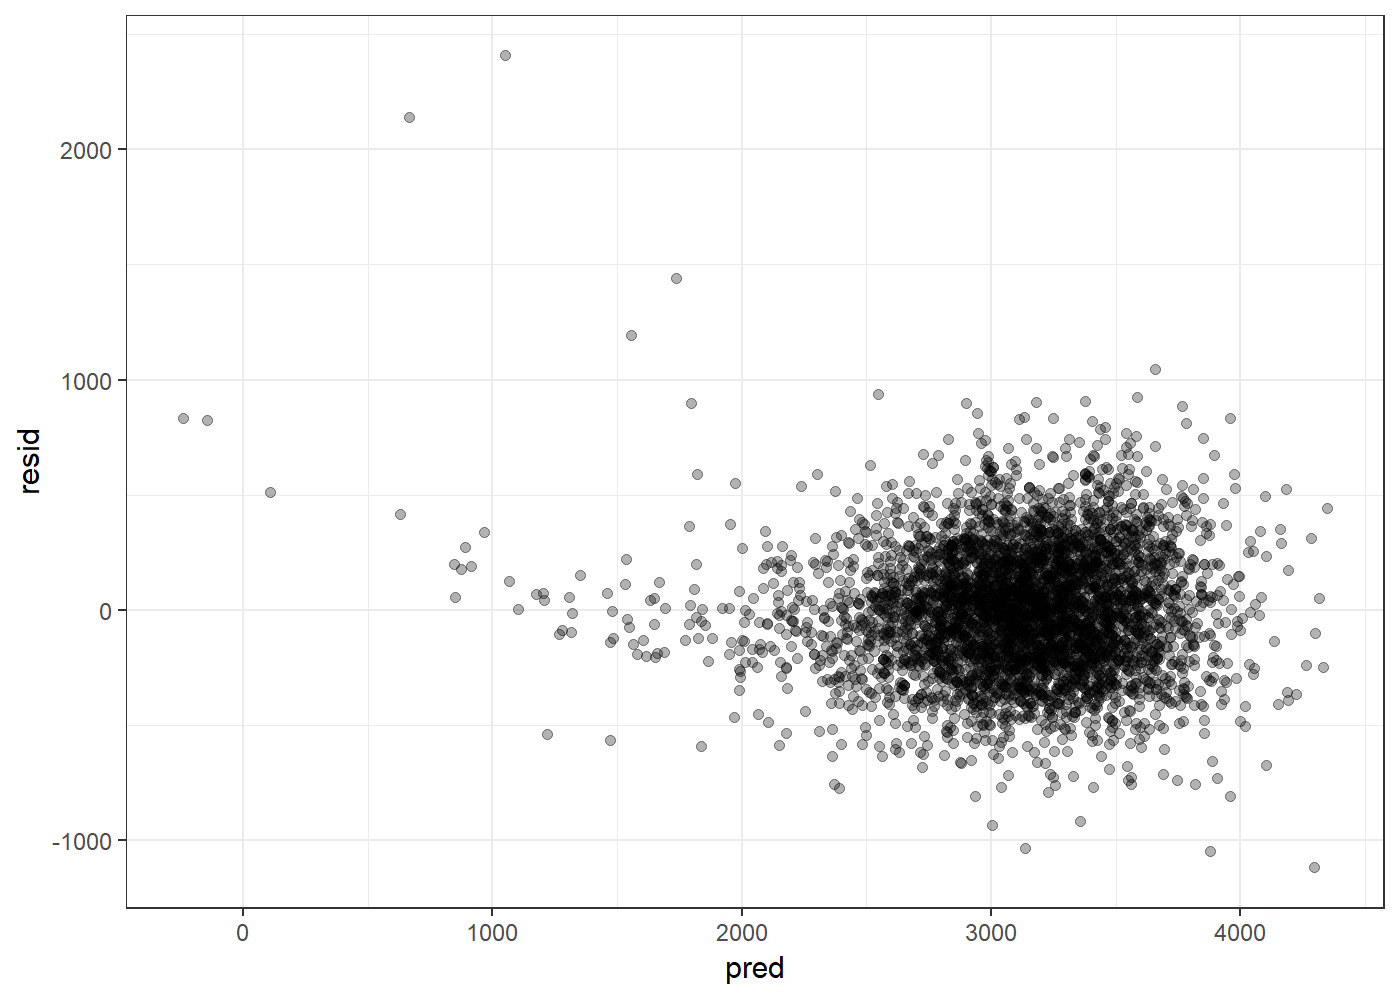
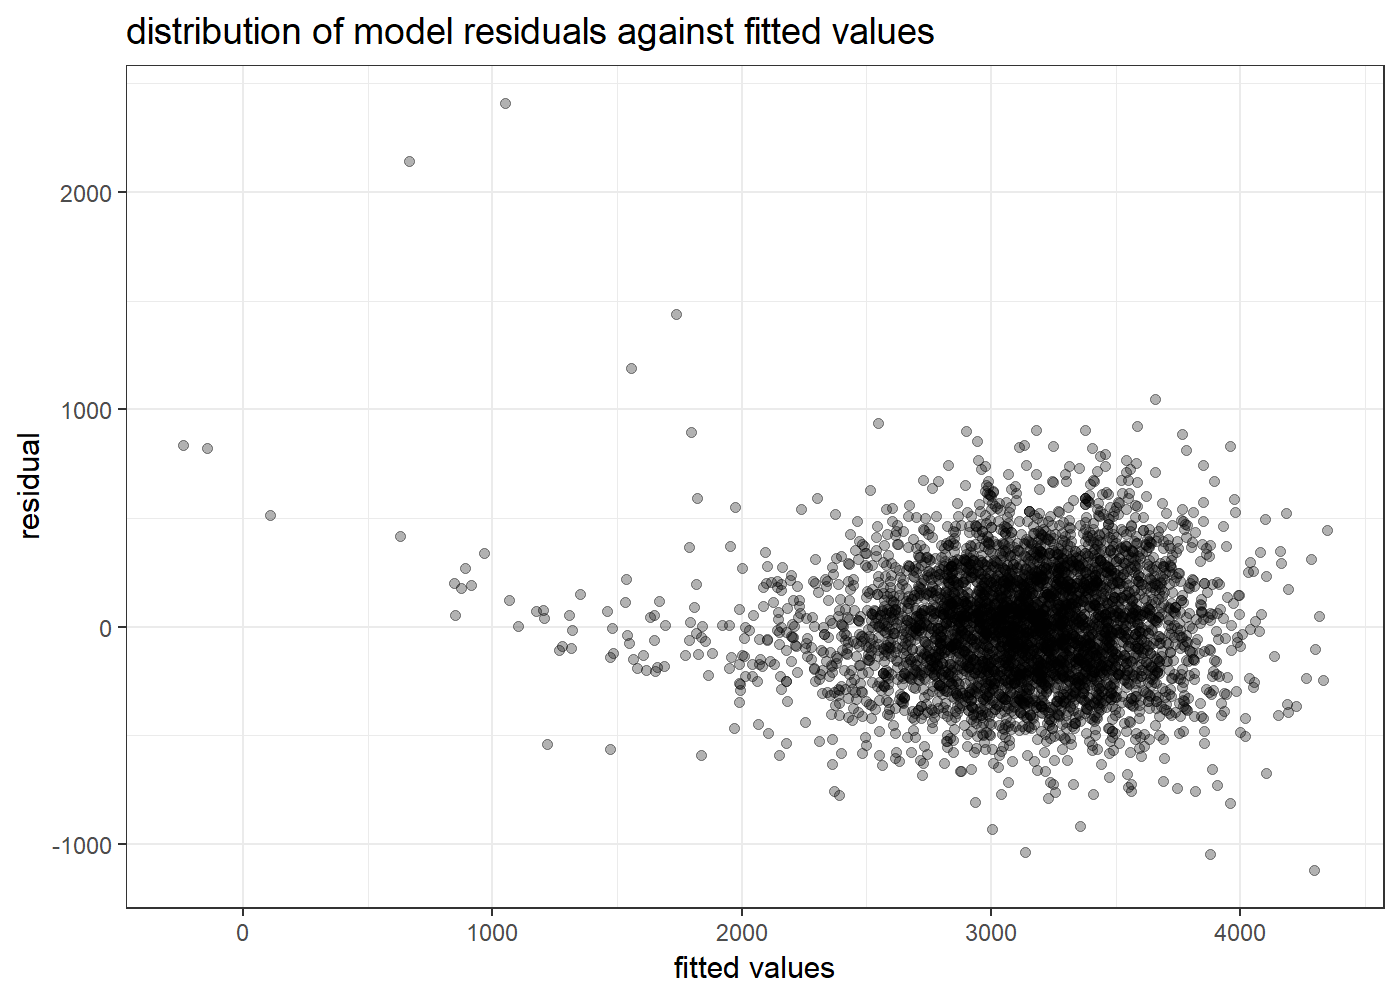
add linear regression and plot

diff --git a/p8105_hw6_jq2293.md b/p8105_hw6_jq2293.md
@@ -353,14 +353,17 @@ summary(bwt_mlr_2)
 
 ``` r
 birth_data %>% 
-  add_residuals(bwt_mlr_2) %>% 
+  add_residuals(bwt_mlr_2, var = "residual") %>% 
   add_predictions(bwt_mlr_2) %>% 
-  ggplot(aes(x = pred, y = resid)) + 
-  geom_point(alpha = .3)
+  ggplot(aes(x = pred, y = residual)) + 
+  geom_point(alpha = .3) +
+  labs(x = "fitted values",
+       title = "distribution of model residuals against fitted values") 
 ```
 
-<img src="p8105_hw6_jq2293_files/figure-gfm/mlr-1.png" width="90%" /> At
-first, It is hypothesied that `gaweeks`, `malform`, `smoken` and
+<img src="p8105_hw6_jq2293_files/figure-gfm/mlr-1.png" width="90%" />
+
+At first, It is hypothesied that `gaweeks`, `malform`, `smoken` and
 `wtgain` are predictors, but it turns out `malform` is not a significant
 predictor, and the \(R^2\) is only 0.21, meaning the variance is
 accounted for other variables.
@@ -369,3 +372,6 @@ Trying `gaweeks`, `smoken`, `wtgain`, `bhead`, `blength`, `mrace` as
 predictors, we can see each predictor is significant and adjusted
 \(R^2\) is 0.71, pretty similar to crude \(R^2\), meaning the set of
 predictors here is reasonable. So the second model is used here.
+
+In general, the plot shows that residuals are randomly scattered around
+0, but three outliers are noticed.
